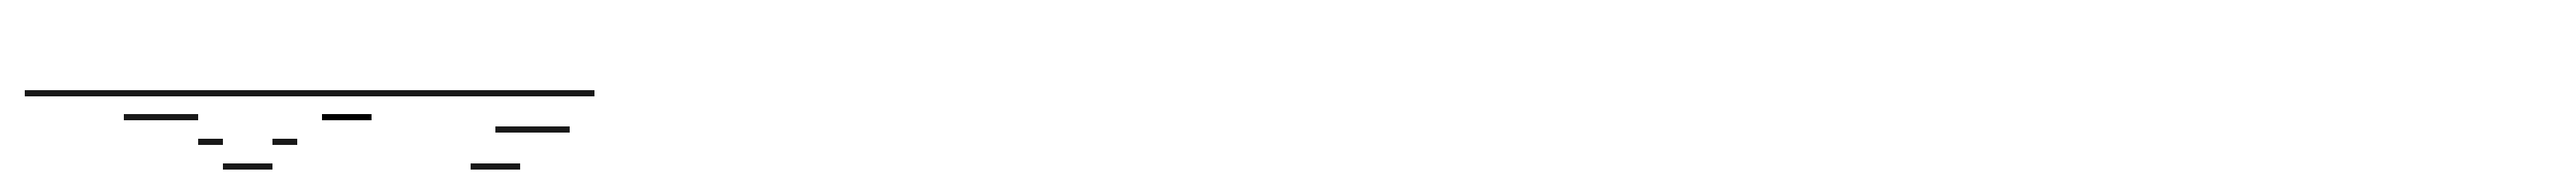
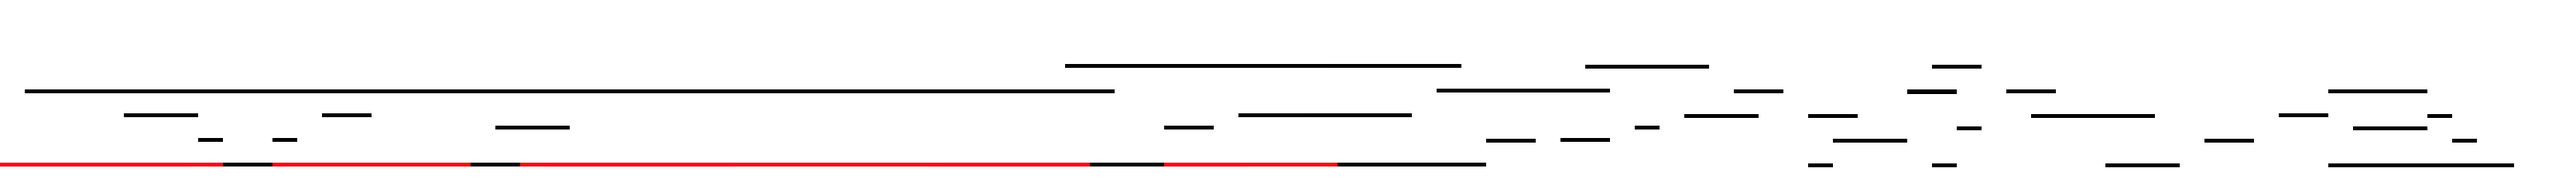
added water boundary

diff --git a/src/Entities/Player.java b/src/Entities/Player.java
@@ -10,10 +10,7 @@ public class Player extends Entity {
 	
 	private boolean[] hit_data = new boolean[]{false, false, false};
 	// 0=player is hit, 1=knockback, 2=
-	
-	private boolean hit = false;
-	private boolean knockback = false;
-	
+	private boolean inWater = false;
 	private int health = 3;
 	private boolean player2;
 	private boolean shot = false;
@@ -36,6 +33,13 @@ public class Player extends Entity {
 		 if (hit_data[0]) {
 			 if  (!animator.getAnimation().equals("hit"))
 					 animator.setAnimation("hit");
+			 return;
+		 }
+		 
+		 if (inWater) {
+			 System.out.println("in water");
+			 if (!animator.getAnimation().equals("water_down"))
+				 animator.setAnimation("water_down");
 			 return;
 		 }
 		 
@@ -70,7 +74,7 @@ public class Player extends Entity {
 		} else if (data[2+i]+data[1+i]==2) {
 			if (!animator.getAnimation().equals("up_angle"))
 				animator.setAnimation("up_angle");
-		} else if (data[i]+data[3+i]==2) {
+		} else if (data[i]+data[3+i]==2) { 
 			flipped = true;
 			if (!animator.getAnimation().equals("down_angle"))
 				animator.setAnimation("down_angle");
@@ -87,7 +91,6 @@ public class Player extends Entity {
 		
 		if (!onGround && !animator.getAnimation().equals("jump"))
 			animator.setAnimation("jump");
-		
 	}
 	
 	public void updatePosition(int[] data, Rectangle _w) {
@@ -131,6 +134,7 @@ public class Player extends Entity {
 		if (!animator.getAnimation().equals("hit"))
 			 animator.setAnimation("hit");
 	}
+	
 	public Rectangle getGroundHitbox() { return new Rectangle((int)x, (int)y + this.height - 1, this.width, 1); }
 	public boolean isFalling() { return falling; }
 	public void setFalling(boolean f) { falling = f; }
@@ -139,6 +143,8 @@ public class Player extends Entity {
 	public boolean isFlipped() { return this.flipped; }
 	public boolean onGround() { return onGround; }
 	public void setOnGround(boolean b) { onGround = b; }
+	public boolean inWater() { return inWater; }
+	public void setInWater(boolean a) { inWater = a; }
 	public double getDy() { return dy; }
 	public double getDir() {
 		switch(this.animator.getAnimation()) {

diff --git a/src/Model.java b/src/Model.java
@@ -52,17 +52,18 @@ public class Model {
 		//Player and ground collisions
 		
 		level.players[0].setOnGround(false);
+		level.players[0].setInWater(false);
 		if (pos == 1) level.players[1].setOnGround(false);
 		
-		if (level.players[0].isFalling() && !level.boundaryCollision(level.players[0].getGroundHitbox())) level.players[0].setFalling(false);
+		if (level.players[0].isFalling() && !level.boundaryCollision(level.players[0].getGroundHitbox(), 0)) level.players[0].setFalling(false);
 		
-		if (level.boundaryCollision(level.players[0].getGroundHitbox()) && !level.players[0].isFalling()) {
+		if (level.boundaryCollision(level.players[0].getGroundHitbox(), 0) && !level.players[0].isFalling()) {
 			if (level.players[0].getDy() > 0)
 				level.players[0].setOnGround(true);
 		}
 		
 		if (pos == 1) {
-			if (level.boundaryCollision(level.players[1].getGroundHitbox())  && !level.players[1].isFalling()) {
+			if (level.boundaryCollision(level.players[1].getGroundHitbox(), 0)  && !level.players[1].isFalling()) {
 				if (level.players[1].getDy() > 0)
 					level.players[1].setOnGround(true);
 			}
@@ -70,8 +71,15 @@ public class Model {
 		
 		for (Entity e : level.getEnemies()) {
 			e.setOnGround(false);
-			if (level.boundaryCollision(e.getHitbox()))
+			if (level.boundaryCollision(e.getHitbox(), 0))
 					e.setOnGround(true);
+		}
+		if (level.players[0].onGround()) System.out.println("on ground");
+		//Player and water collisions
+		
+		if (level.boundaryCollision(level.players[0].getGroundHitbox(), 2) && !level.players[0].isFalling()) {
+			if (level.players[0].getDy() > 0)
+				level.players[0].setInWater(true);
 		}
 		
 		//Enemy and bullet collisions

diff --git a/src/Utilities/Boundary.java b/src/Utilities/Boundary.java
@@ -1,5 +1,6 @@
 package Utilities;
 
+import java.awt.Color;
 import java.awt.Rectangle;
 import java.awt.image.BufferedImage;
 import java.io.File;
@@ -9,17 +10,19 @@ import javax.imageio.ImageIO;
 
 public class Boundary {
 	
+	//0 = black, 1 = white, 2 = red
+	
 	private int[][] pixels;
 	
 	public Boundary(String path) {
 		pixels = readImage(path);
 	}
 	
-	public boolean collision(Rectangle r) {
+	public boolean collision(Rectangle r, int a) {
 		if (r.x < 0 || r.y < 0 || r.x+r.width > pixels.length || r.y+r.height > pixels[0].length) return false;
 		for (int i=r.x; i<r.x+r.width; ++i)
 			for (int j=r.y; j<r.y+r.height; ++j)
-				if (pixels[i][j] == 1)
+				if (pixels[i][j] == a)
 					return true;
 		return false;
 	}
@@ -36,7 +39,10 @@ public class Boundary {
 		int[][] pixels = new int[img.getWidth()][img.getHeight()];
 		for (int i=0; i<img.getWidth(); ++i)
 			for (int j=0; j<img.getHeight(); ++j) {
-					pixels[i][j] = Math.abs(img.getRGB(i, j)) < 1000 ? 0 : 1;
+					Color c = new Color(img.getRGB(i, j));
+					if (c.getRed() <100 && c.getRed() >200 && c.getRed() >200) pixels[i][j] = 2;
+					else if (c.getRed() <100 && c.getRed() <100 && c.getRed() <100) pixels[i][j] = 0;
+					else pixels[i][j] = 1;
 			}
 		return pixels;
 	}

diff --git a/src/Level.java b/src/Level.java
@@ -39,15 +39,15 @@ public class Level {
 		enemies = new ArrayList<Enemy>();
 		enemies.add(new BackpackSoldier(100, 20, 32, 32, 0.5));
 		enemies.add(new Turret(200, 180, 32, 32));
-		enemies.add(new Turret(250, 180, 32, 32));
-		enemies.add(new Turret(300, 180, 32, 32));
-		enemies.add(new Turret(310, 50, 32, 32));
-		enemies.add(new Turret(310, 100, 32, 32));
-		enemies.add(new Turret(440, 180, 32, 32));
+		//enemies.add(new Turret(250, 180, 32, 32));
+		//enemies.add(new Turret(300, 180, 32, 32));
+		//enemies.add(new Turret(310, 50, 32, 32));
+		//enemies.add(new Turret(310, 100, 32, 32));
+		//enemies.add(new Turret(440, 180, 32, 32));
 	}
 	
-	public boolean boundaryCollision(Rectangle r) {
-		return boundary.collision(r);
+	public boolean boundaryCollision(Rectangle r, int i) {
+		return boundary.collision(r, i);
 	}
 	
 	public void processItems(int[] data) {
